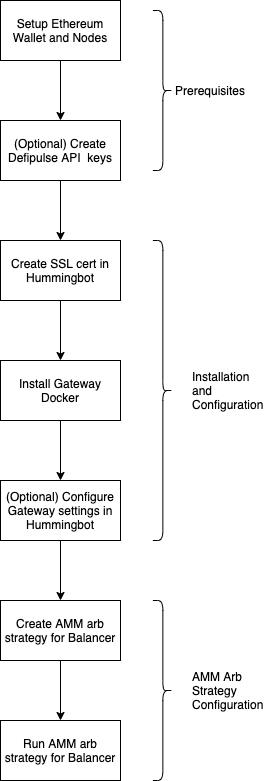
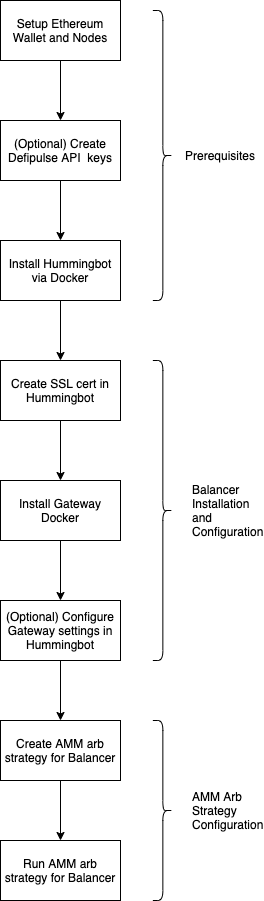
add binance perpetual, and bbalancer connecer, updated amm-arb to include links to docker installation

diff --git a/gatsby-config.js b/gatsby-config.js
@@ -21,7 +21,9 @@ const sidebarCategories = {
   ],
   Connectors: [
     "connectors/overview",
+    "connectors/balancer",
     "connectors/binance",
+    "connectors/binance-futures",
     "connectors/binance-us",
     "connectors/bitfinex",
     "connectors/bittrex",
@@ -45,7 +47,7 @@ const sidebarCategories = {
     "strategies/perpetual-market-making",
     "strategies/arbitrage",
     "strategies/celo-arb",
-    "strategies/balancer-arb",
+    "strategies/amm-arb",
   ],
   "Advanced Market Making": [
     "strategies/adv-market-making",
@@ -132,7 +134,6 @@ const sidebarCategories = {
   ],
   Resources: [
     "resources/faq",
-    "resources/liquidity-mining",
     "resources/glossary",
     "[Hummingbot YouTube](https://www.youtube.com/c/HummingbotChannel)",
     "[Hummingbot whitepaper](https://hummingbot.io/hummingbot.pdf)",
